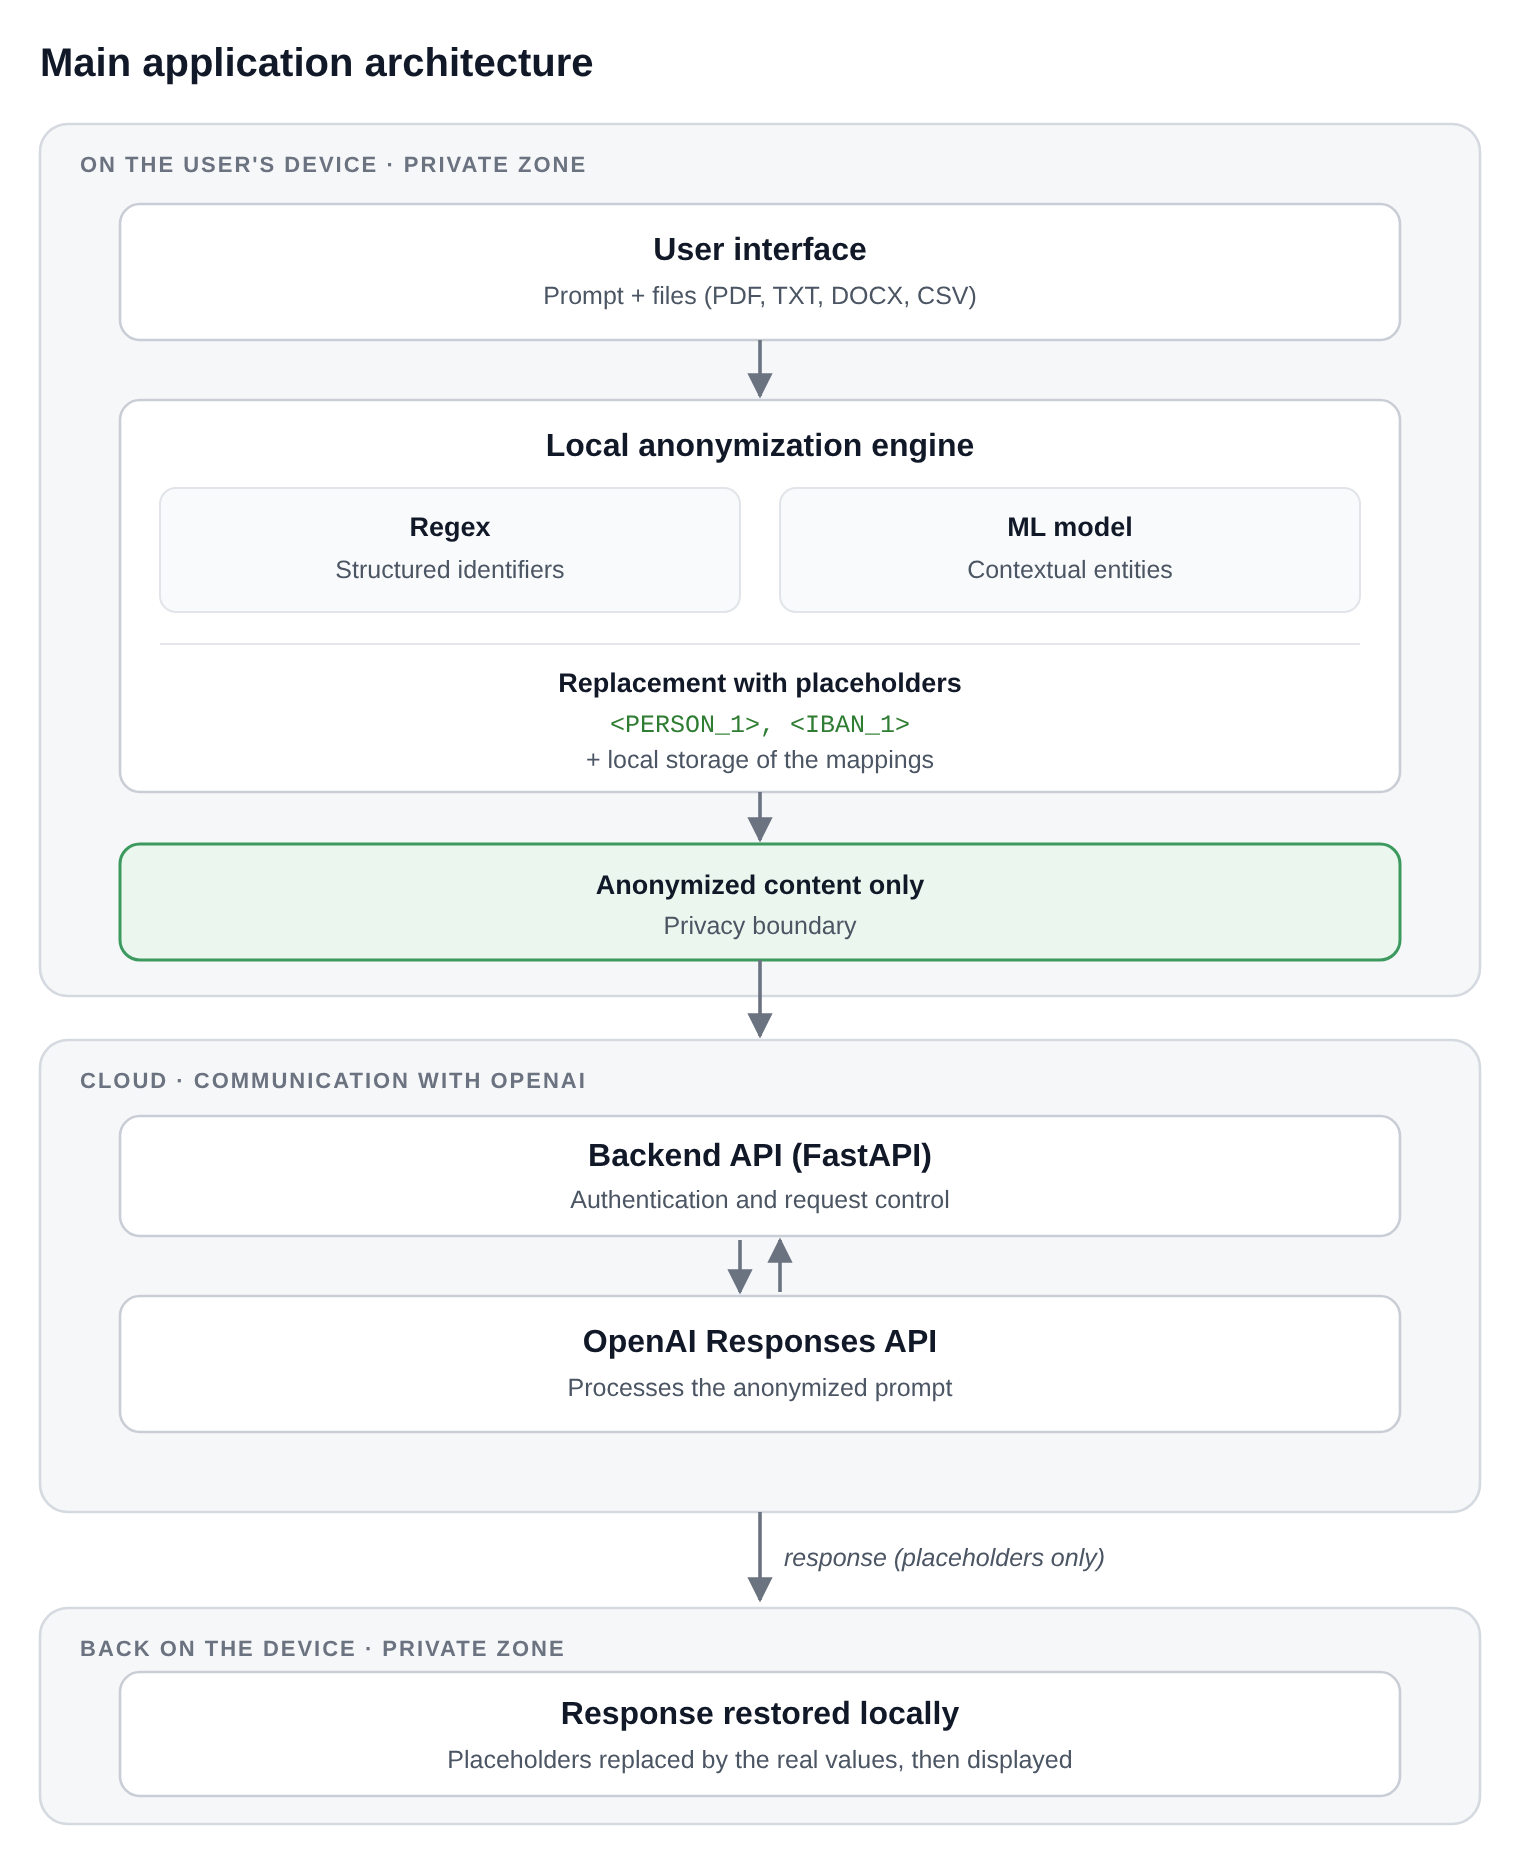
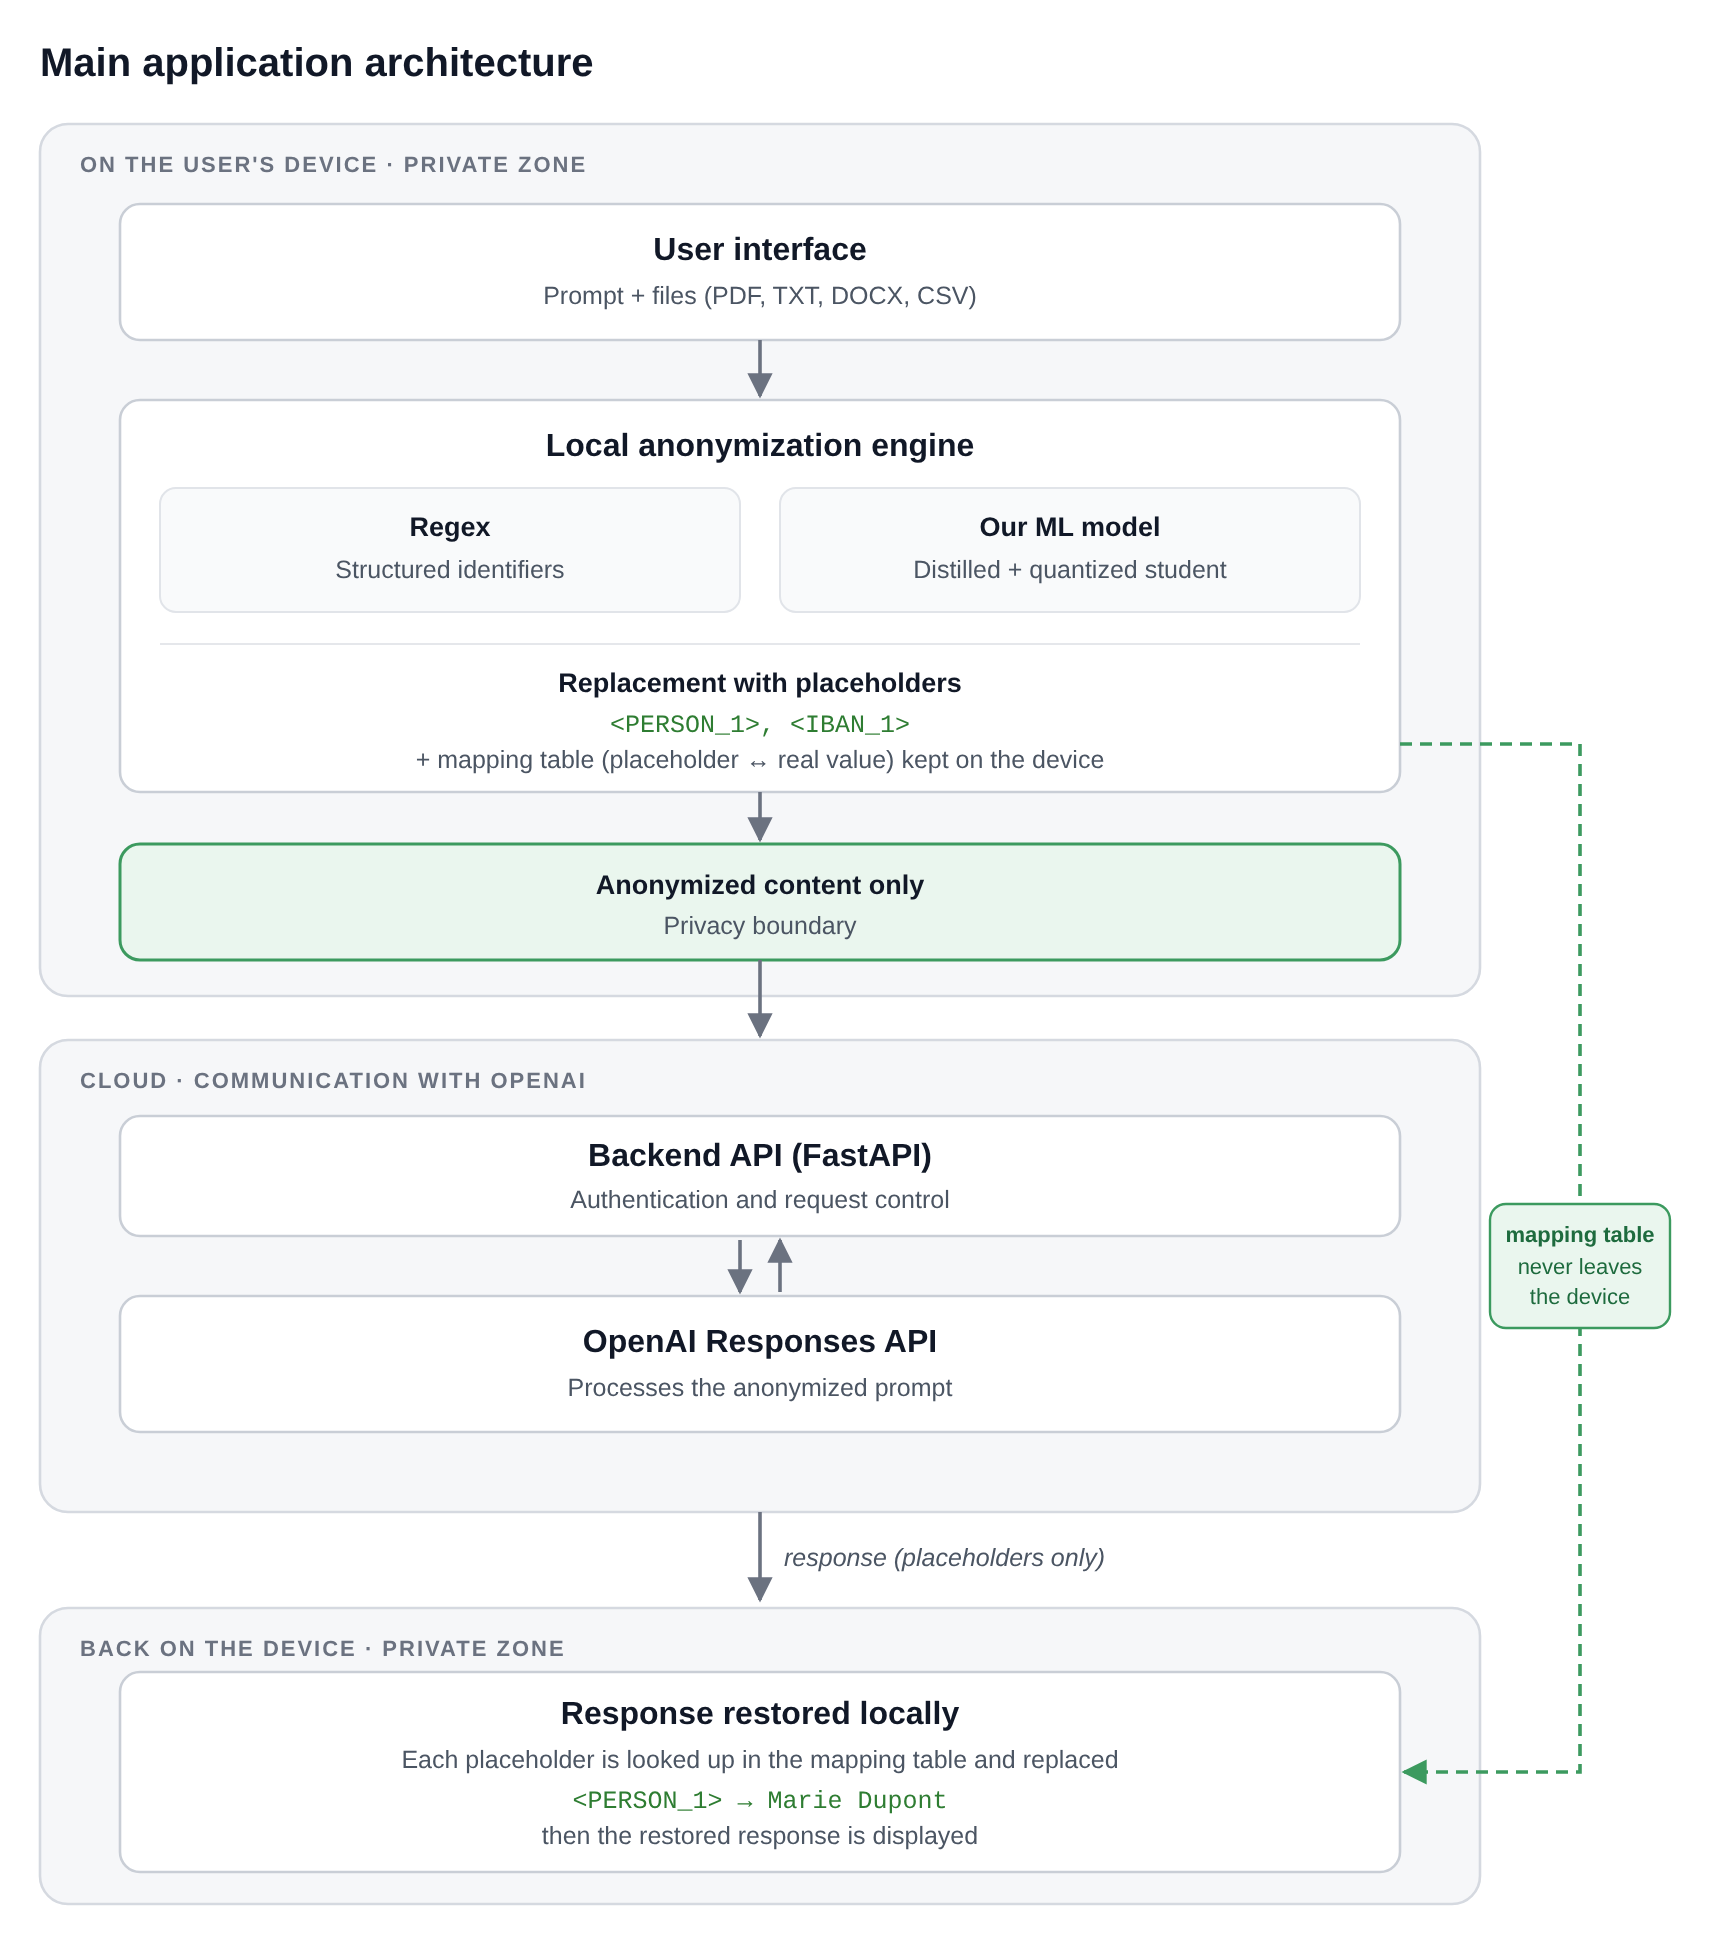
doc: update both architecture schemas

diff --git a/docs/architecture.md b/docs/architecture.md
@@ -1,6 +1,6 @@
 # Architecture
 
-This page describes the two parts of the project: the application that anonymizes data on the user's device, and the MLOps pipeline that trains and delivers its model. Many details are still open. This page gives the structure, not the final choices.
+This page describes the two parts of the project: the application that anonymizes data on the user's device, and the MLOps pipeline that trains, delivers and monitors its model. Many details are still open. This page gives the structure, not the final choices.
 
 ## 1. Main application architecture
 
@@ -13,26 +13,26 @@ The idea is simple: personal data never leaves the user's device. Only anonymize
 1. **User interface.** The user writes a prompt and can attach files (PDF, TXT, DOCX, CSV).
 2. **Local anonymization engine.** The engine finds personal data in the prompt and in the files. It has two parts that work together:
    - **Regex rules** for structured identifiers, which follow a fixed format.
-   - **An ML model** for contextual entities, such as names or addresses, which need context to be found.
-3. **Replacement with placeholders.** Each value that the engine finds is replaced by a placeholder, such as `<PERSON_1>` or `<IBAN_1>`. The mapping between each placeholder and its real value is stored locally, on the device only.
+   - **Our ML model** for contextual entities, such as names or addresses, which need context to be found. This is the model we train ourselves: a student distilled from a larger teacher and quantized, produced by the pipeline in part 2.
+3. **Replacement with placeholders.** Each value that the engine finds is replaced by a placeholder, such as `<PERSON_1>` or `<IBAN_1>`. The same value always gets the same placeholder. The engine records each pair in a **mapping table** (placeholder ↔ real value), which is kept on the device only.
 4. **Privacy boundary.** Only the anonymized content goes past this point.
 
 ### In the cloud
 
 5. **Backend API (FastAPI).** It receives the anonymized request and handles authentication and request control.
-6. **OpenAI Responses API.** It processes the anonymized prompt and sends back a response. This response still contains placeholders only.
+6. **OpenAI Responses API.** It processes the anonymized prompt and sends back a response. The model works with the placeholders as if they were normal words, so its response contains placeholders too, never real values.
 
 ### Back on the device
 
-7. **Response restored locally.** The application uses the local mapping to put the real values back in place of the placeholders, then shows the response to the user.
+7. **Response restored locally.** The application reads the response, finds each placeholder in it, and looks it up in the mapping table. It then replaces the placeholder with the real value, for example `<PERSON_1>` → `Marie Dupont`, and shows the restored response to the user.
 
-The restoration happens on the device because the mapping never leaves it. Neither the backend nor OpenAI ever sees the real values.
+The restoration happens on the device because the mapping table never leaves it. Neither the backend nor OpenAI ever sees the real values.
 
 ## 2. Training and deployment pipeline (MLOps)
 
 ![Training and deployment pipeline](diagrams/mlops.png)
 
-This pipeline produces the ML model used by the local anonymization engine. Training happens in the cloud. The model then runs on the user's device.
+This pipeline produces the ML model used by the local anonymization engine. Training happens in the cloud. The model then runs on the user's device, and its use is monitored.
 
 ### Source and automation
 
@@ -41,7 +41,7 @@ This pipeline produces the ML model used by the local anonymization engine. Trai
 
 ### Training on Google Cloud (Agent Platform)
 
-The pipeline runs on Agent Platform, Google Cloud's platform for training and managing models. It has five steps:
+The pipeline runs on Agent Platform, Google Cloud's platform for training and managing models (formerly Vertex AI). It has five steps:
 
 1. **Data preparation.** Collect the datasets, clean them and split them into training and test sets.
 2. **Teacher fine-tuning.** Fine-tune a large PII detection model on our data. This large model is the "teacher".
@@ -57,3 +57,23 @@ The pipeline runs on Agent Platform, Google Cloud's platform for training and ma
 ### Local application
 
 The local application downloads and installs the approved model from the registry.
+
+### Monitoring
+
+Once the model runs in the application, we monitor how it behaves in real use, for example with Sentry:
+
+- **Response times**, to check that anonymization stays fast enough.
+- **Errors**, in the application and in the backend.
+- **User feedback**, to know whether users are satisfied with the results.
+
+Monitoring must never collect personal data: no prompts, no files, no responses, and no values from the mapping table. Only technical measures and anonymous feedback are sent.
+
+What we learn from monitoring feeds the next iteration: changes to the code, the data or the configuration go back to GitHub, and the pipeline runs again.
+
+## Still to decide
+
+- The datasets, and the teacher and student models.
+- The metrics and the values of the quality-gate thresholds.
+- Where the backend API is hosted.
+- How and when the local application checks for a new model.
+- The monitoring tool and the exact measures it collects.
